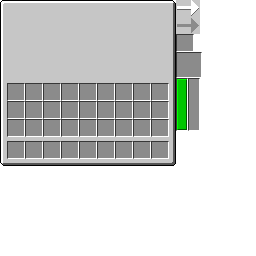
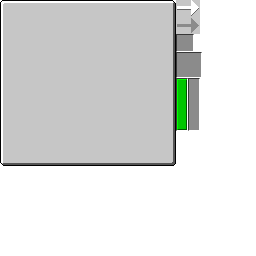
chlorojoules: implement procedural machine GUI generation

Changed region(s): [[0.0, 0.3125, 0.6875, 0.625]]

diff --git a/src/client/java/io/github/chlorojoules/client/CJGuiMachineBase.java b/src/client/java/io/github/chlorojoules/client/CJGuiMachineBase.java
@@ -1,6 +1,7 @@
 package io.github.chlorojoules.client;
 
 import net.minecraft.src.client.gui.GuiContainer;
+import net.minecraft.src.client.gui.Slot;
 import net.minecraft.src.client.gui.StringTranslate;
 import net.minecraft.src.game.entity.player.InventoryPlayer;
 import org.lwjgl.opengl.GL11;
@@ -8,7 +9,55 @@ import org.lwjgl.opengl.GL11;
 public class CJGuiMachineBase extends GuiContainer {
 	public static final int MACHINE_TEXT_COLOR = 4210752;
 
-	private CJTileEntityMachineBase machine;
+	// Game slot hitbox size.
+	private static final int SLOT_WIDTH = 16;
+	private static final int SLOT_HEIGHT = 16;
+
+	// NOTE: Positional information from `resources/cj_machinebase.xcf` image
+	// Source split by layer.
+	private static final int PROGRESS_FULL_X = 176;
+	private static final int PROGRESS_FULL_Y = 0;
+
+	private static final int PROGRESS_EMPTY_X = 176;
+	private static final int PROGRESS_EMPTY_Y = 17;
+
+	private static final int PROGRESS_WIDTH = 24;
+	private static final int PROGRESS_HEIGHT = 17;
+
+	private static final int SLOT_IN_X = 176;
+	private static final int SLOT_IN_Y = 34;
+
+	private static final int SLOT_IN_WIDTH = 18;
+	private static final int SLOT_IN_HEIGHT = 18;
+
+	private static final int SLOT_IN_OFFSET_X =
+			(SLOT_IN_WIDTH - SLOT_WIDTH) / 2;
+
+	private static final int SLOT_IN_OFFSET_Y =
+			(SLOT_IN_HEIGHT - SLOT_HEIGHT) / 2;
+
+	private static final int SLOT_OUT_X = 176;
+	private static final int SLOT_OUT_Y = 52;
+
+	private static final int SLOT_OUT_WIDTH = 26;
+	private static final int SLOT_OUT_HEIGHT = 26;
+
+	private static final int SLOT_OUT_OFFSET_X =
+			(SLOT_OUT_WIDTH - SLOT_WIDTH) / 2;
+
+	private static final int SLOT_OUT_OFFSET_Y =
+			(SLOT_OUT_HEIGHT - SLOT_HEIGHT) / 2;
+
+	private static final int FLUID_FULL_X = 176;
+	private static final int FLUID_FULL_Y = 78;
+
+	private static final int FLUID_EMPTY_X = 188;
+	private static final int FLUID_EMPTY_Y = 78;
+
+	private static final int FLUID_WIDTH = 12;
+	private static final int FLUID_HEIGHT = 53;
+
+	private final CJTileEntityMachineBase machine;
 
 	public CJGuiMachineBase(
 			InventoryPlayer inventoryPlayer, CJTileEntityMachineBase machine) {
@@ -40,14 +89,42 @@ public class CJGuiMachineBase extends GuiContainer {
 
 	@Override
 	protected void drawGuiContainerBackgroundLayer(float deltaTicks) {
-		// TODO: Draw background texture -- procedural GUI texture generation?
-		int texture = mc.renderEngine.getTexture("/gui/furnace.png");
+		CJContainerMachineBase machine =
+				(CJContainerMachineBase) inventorySlots;
+
+		int texture = mc.renderEngine.getTexture("/gui/cj_machinebase.png");
 		GL11.glColor4f(1.0F, 1.0F, 1.0F, 1.0F);
 		mc.renderEngine.bindTexture(texture);
 
-		int x = (width - xSize) / 2;
-		int y = (height - ySize) / 2;
+		int baseX = (width - xSize) / 2;
+		int baseY = (height - ySize) / 2;
 
-		drawTexturedModalRect(x, y, 0, 0, xSize, ySize);
+		// Draw UI base.
+		drawTexturedModalRect(baseX, baseY, 0, 0, xSize, ySize);
+
+		// Draw slots.
+		CJSlotMachineBase slot;
+		int slotX;
+		int slotY;
+		for(int i = 0; i < machine.slots.size(); i++) {
+			slot = (CJSlotMachineBase) machine.slots.get(i);
+			slotX = baseX + slot.xDisplayPosition;
+			slotY = baseY + slot.yDisplayPosition;
+
+			if(slot.isOutput()) {
+				drawTexturedModalRect(
+						slotX - SLOT_OUT_OFFSET_X, slotY - SLOT_OUT_OFFSET_Y,
+						SLOT_OUT_X, SLOT_OUT_Y,
+						SLOT_OUT_WIDTH, SLOT_OUT_HEIGHT);
+			}
+			else {
+				drawTexturedModalRect(
+						slotX - SLOT_IN_OFFSET_X, slotY - SLOT_IN_OFFSET_Y,
+						SLOT_IN_X, SLOT_IN_Y,
+						SLOT_IN_WIDTH, SLOT_IN_HEIGHT);
+			}
+		}
+
+		// TODO: Fluid tank/slots interface.
 	}
 }

diff --git a/src/client/java/io/github/chlorojoules/client/CJContainerMachineBase.java b/src/client/java/io/github/chlorojoules/client/CJContainerMachineBase.java
@@ -7,47 +7,59 @@ import net.minecraft.src.game.entity.player.EntityPlayer;
 import net.minecraft.src.game.entity.player.InventoryPlayer;
 import net.minecraft.src.game.item.ItemStack;
 
-class CJSlotMachineBaseOutput extends Slot {
+class CJSlotMachineBase extends Slot {
 	private final EntityPlayer entityPlayer;
 
-	public CJSlotMachineBaseOutput(
+	private boolean output = false;
+
+	public CJSlotMachineBase(
 			EntityPlayer entityPlayer, IInventory inventory,
 			int index, int x, int y) {
 
 		super(inventory, index, x, y);
+
 		this.entityPlayer = entityPlayer;
 	}
 
 	@Override
-	public boolean isItemValid(ItemStack itemStack) {
-		return false;
+	public boolean isItemValid(ItemStack item) {
+		return !output;
 	}
 
 	@Override
-	public void onPickupFromSlot(ItemStack itemStack) {
-		itemStack.onCrafting(entityPlayer.worldObj, entityPlayer);
-		super.onPickupFromSlot(itemStack);
+	public void onPickupFromSlot(ItemStack item) {
+		item.onCrafting(entityPlayer.worldObj, entityPlayer);
+		super.onPickupFromSlot(item);
+	}
+
+	CJSlotMachineBase setOutput(boolean value) {
+		output = value;
+		return this;
+	}
+
+	boolean isOutput() {
+		return output;
 	}
 }
 
 public class CJContainerMachineBase extends Container {
-	private CJTileEntityMachineBase machine;
+	private final CJTileEntityMachineBase machine;
 
 	void addPlayerInventory(InventoryPlayer inventory) {
+		EntityPlayer player = inventory.player;
+
+		// TODO: Can we de-magic this a little bit?
 		for(int row = 0; row < 3; row++) {
 			for(int column = 0; column < 9; column++) {
-				Slot slot = new Slot(
-						inventory,
-						column + (row * 9) + 9, /* Index */
-						8 + (column * 18), /* X */
-						84 + (row * 18) /* Y */);
-
-				addSlot(slot);
+				addSlot(new CJSlotMachineBase(
+						player, inventory, column + (row * 9) + 9,
+						8 + (column * 18), 84 + (row * 18)));
 			}
 		}
 
 		for(int i = 0; i < 9; i++) {
-			addSlot(new Slot(inventory, i, 8 + i * 18, 142));
+			addSlot(new CJSlotMachineBase(
+					player, inventory, i, 8 + i * 18, 142));
 		}
 	}
 
@@ -56,12 +68,13 @@ public class CJContainerMachineBase extends Container {
 
 		this.machine = machine;
 
-		IInventory inventory = (IInventory) machine;
 		EntityPlayer player = inventoryPlayer.player;
 
 		// TODO: GuiBuilder API to passthrough from machine creation.
-		addSlot(new CJSlotMachineBaseOutput(player, inventory, 0, 100, 50));
-		addSlot(new Slot(inventory, 1, 50, 50));
+		addSlot(new CJSlotMachineBase(player, machine, 0, 100, 50)
+				.setOutput(true));
+
+		addSlot(new CJSlotMachineBase(player, machine, 1, 50, 50));
 
 		addPlayerInventory(inventoryPlayer);
 	}
@@ -70,13 +83,12 @@ public class CJContainerMachineBase extends Container {
 	@Override
 	public void updateInventory() {
 		super.updateInventory();
-
 	}
 
 	@Override
 	public void func_20112_a(int slot, int arg2) {
 		// This is for updating the progress bar (apparently)?
-		// arg2 might be the progress amount/delta but it's unclear.
+		// arg2 might be the progress amount/delta, but it's unclear.
 	}
 
 	@Override

diff --git a/src/client/java/io/github/chlorojoules/client/CJTileEntityMachineBase.java b/src/client/java/io/github/chlorojoules/client/CJTileEntityMachineBase.java
@@ -8,9 +8,11 @@ import net.minecraft.src.game.item.ItemStack;
 import net.minecraft.src.game.level.World;
 import net.minecraft.src.game.nbt.NBTTagCompound;
 
-class CJTileEntityMachineBase extends TileEntity implements IInventory {
+public class CJTileEntityMachineBase extends TileEntity implements IInventory {
 	// TODO: Make a tagging/name/enum system so we can keep track of slots
 	//		 In a machine without magic numbers.
+	//		 `CJContainerMachineBase` can contain this mapping which can then
+	//		 Be read here.
 	// NOTE: For now, let convention be that slot 0 is always output.
 	public ItemStack[] stacks = new ItemStack[2];
 
